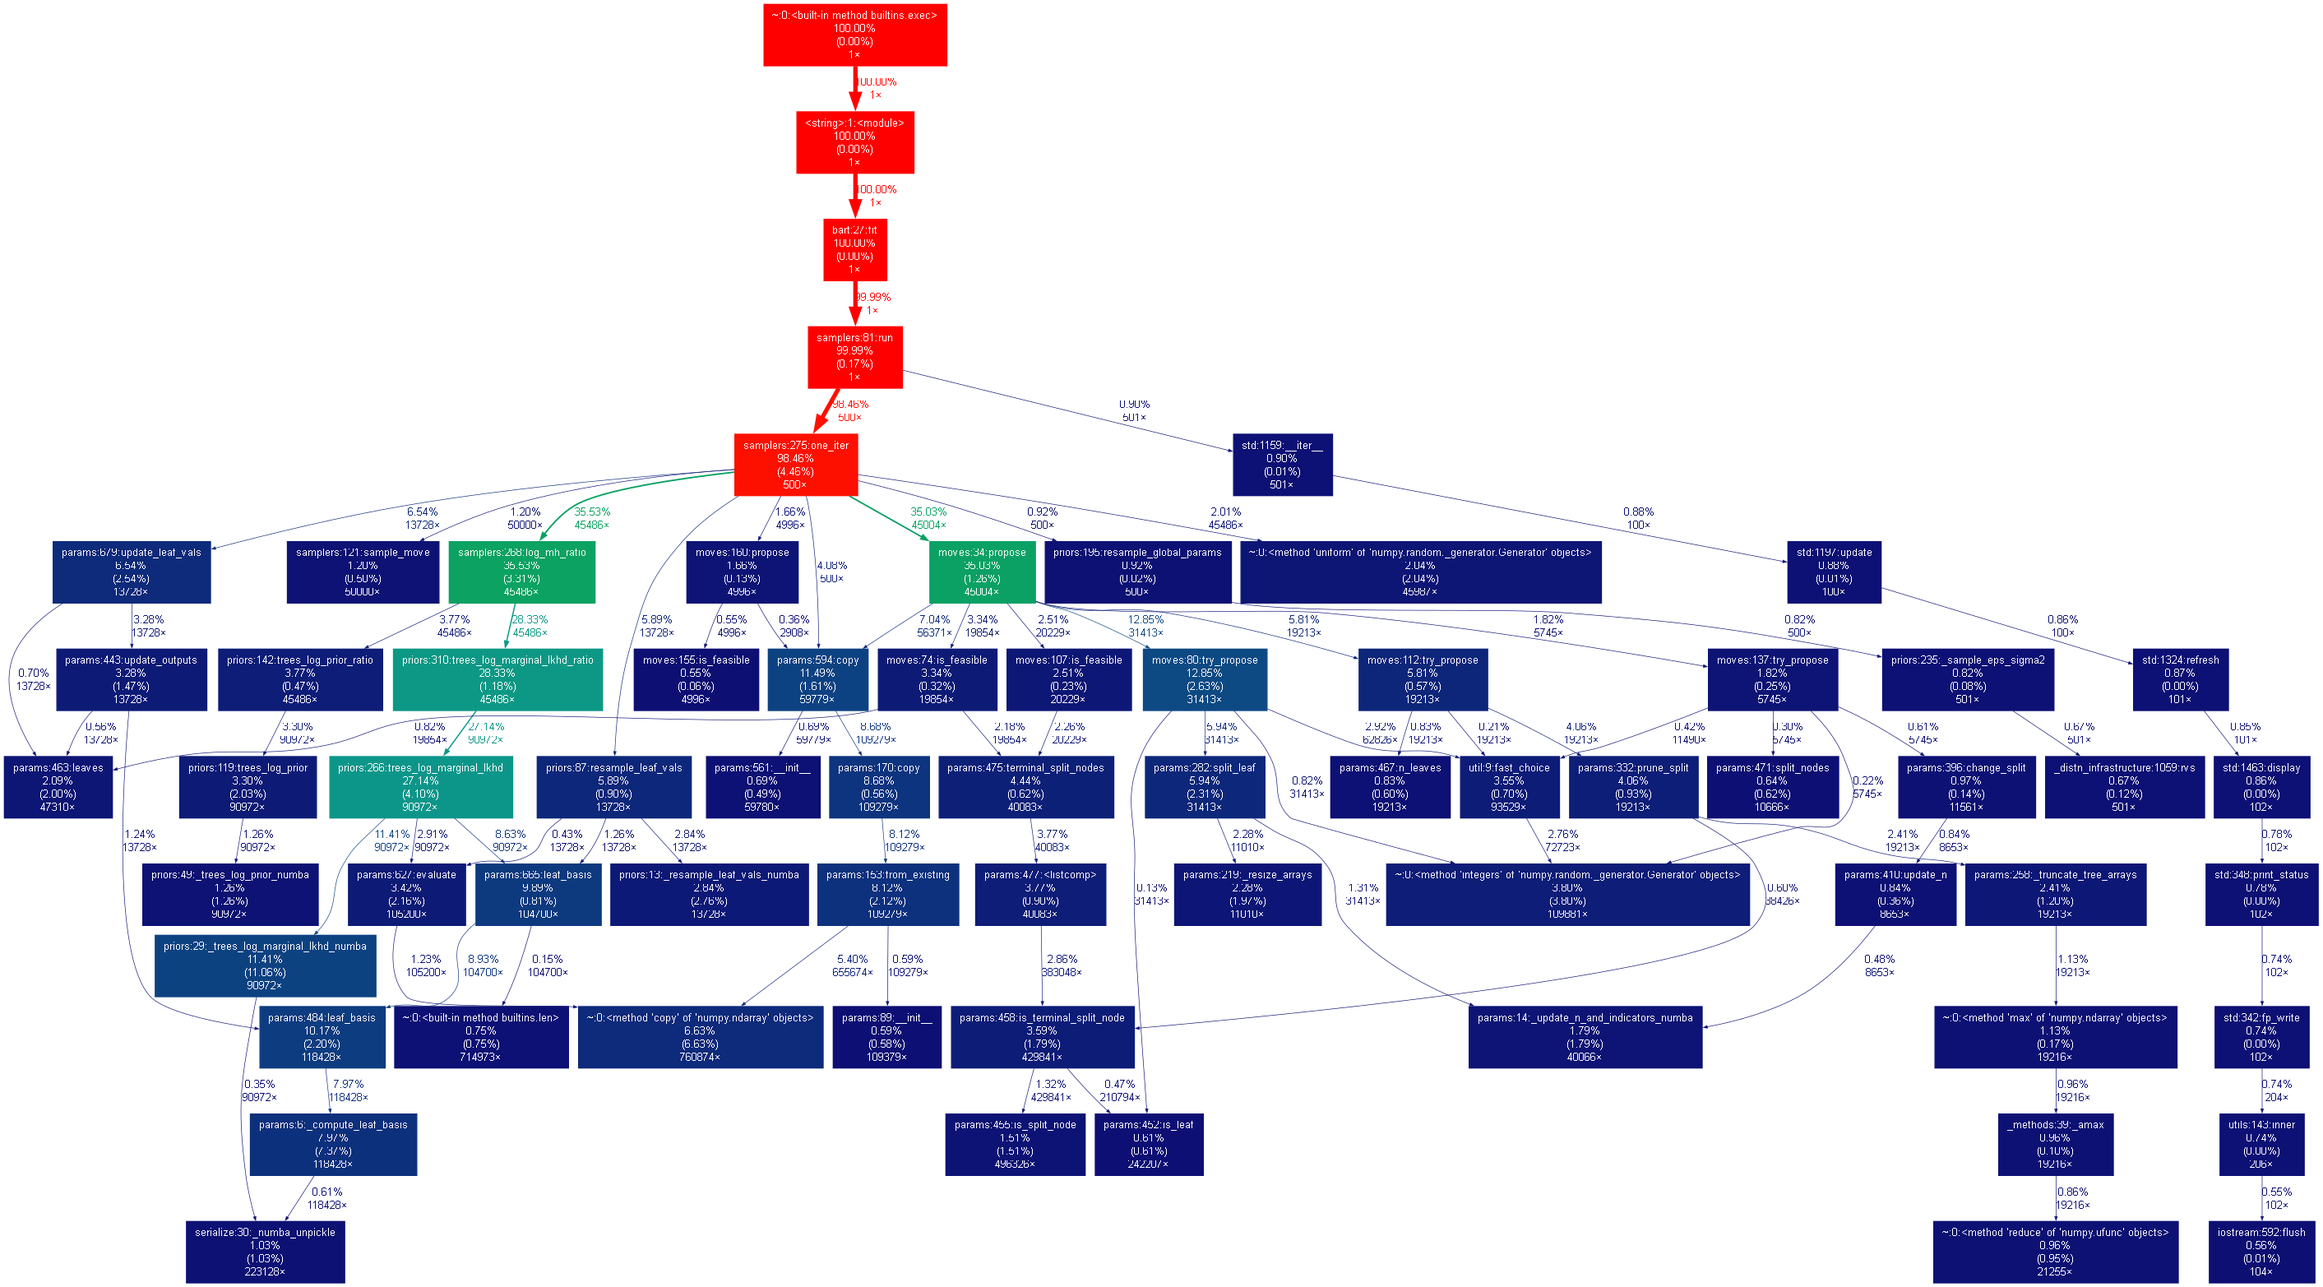
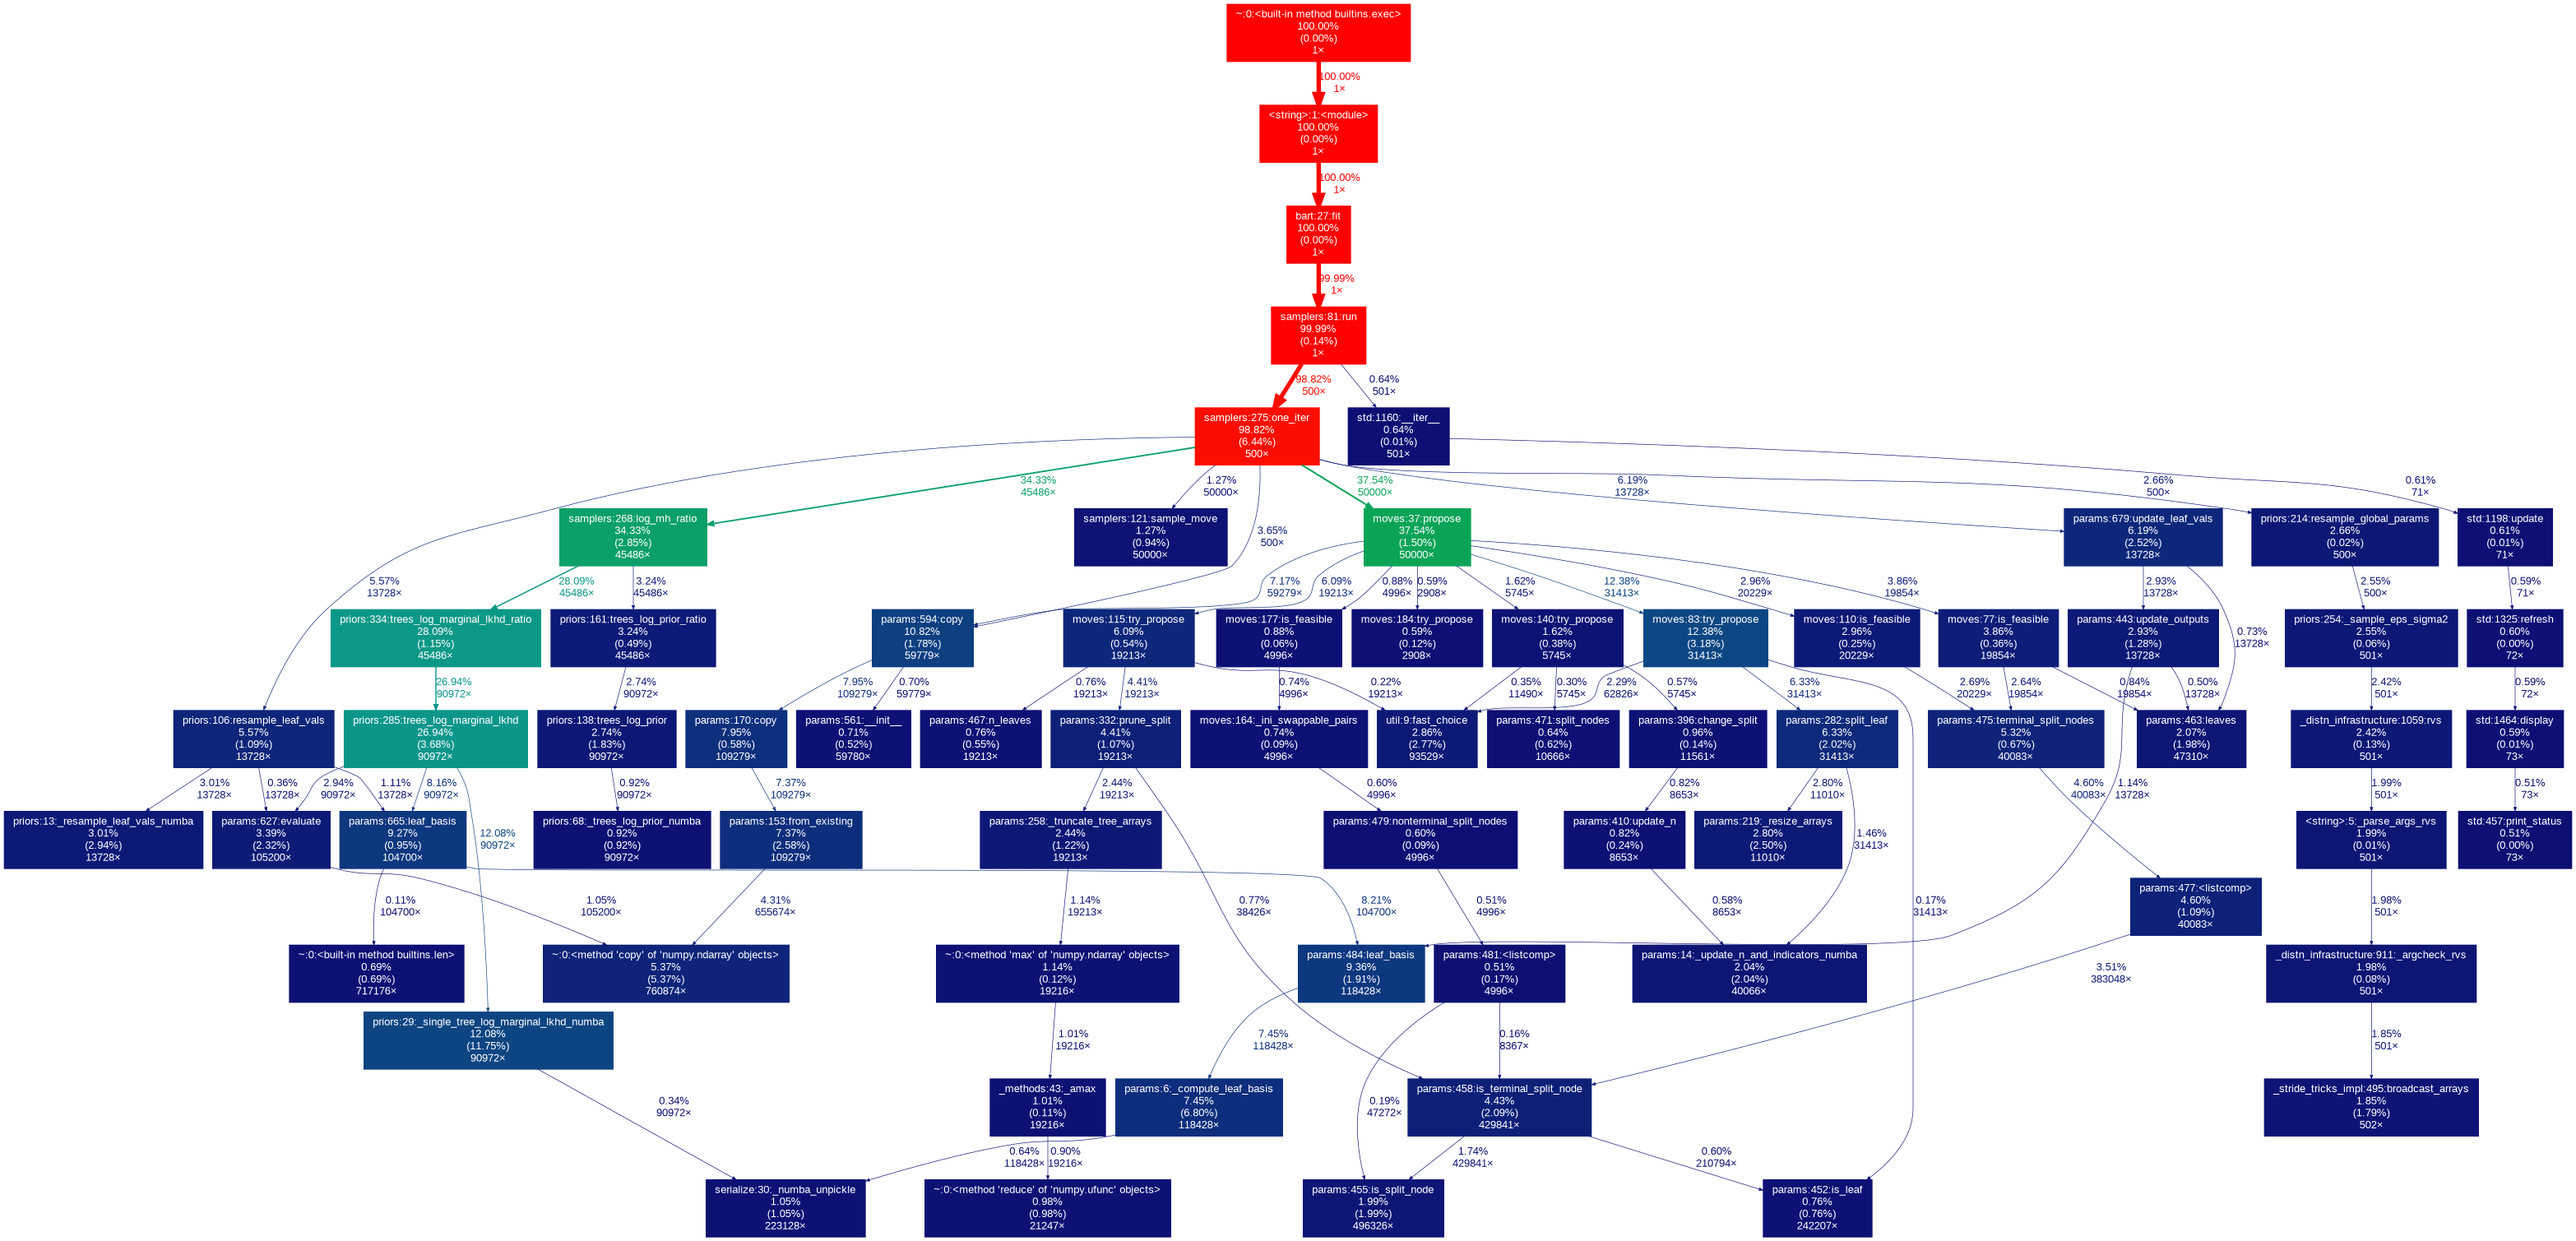
Add fallback to SVD when updating more than 1 tree at a time
By the way, slightly DRY the changes in `moves.py`

Changed region(s): [[0.0, 0.0, 1.0, 1.0], [0.6542, 0.9344, 0.7476, 1.0], [0.2492, 0.8721, 0.2804, 0.9032]]

diff --git a/bart_playground/moves.py b/bart_playground/moves.py
@@ -30,13 +30,16 @@ class Move(ABC):
     def possible_thresholds(self):
         assert self._possible_thresholds, "possible_thresholds must be initialized"
         return self._possible_thresholds
+    @property
+    def _num_possible_proposals(self):
+        return self.tol
 
     def propose(self, generator):
         """
         Propose a new state.
         """
         if self.is_feasible():
-            for _ in range(self.tol):
+            for _ in range(self._num_possible_proposals):
                 proposed = self.current.copy(self.trees_changed)
                 success = self.try_propose(proposed, generator)
                 if success:
@@ -151,43 +154,41 @@ class Swap(Move):
                  possible_thresholds = None, tol : int = 100):
         super().__init__(current, trees_changed, tol = tol)
         assert len(trees_changed) == 1
-
-    def is_feasible(self):
-        tree = self.current.trees[self.trees_changed[0]]
-        self.cur_nonterminal_split_nodes = tree.nonterminal_split_nodes
-        return len(self.cur_nonterminal_split_nodes) > 0
+        self.swappable_pairs = None
+        self.idx = None
+        
+    @property
+    def _num_possible_proposals(self):
+        return min(self.tol, len(self.swappable_pairs))
     
-    def propose(self, generator):
-        """
-        Try all possible parent-child pairs, return True if any swap succeeds.
-        """
-        if not self.is_feasible():
-            return False
+    def _ini_swappable_pairs(self):
         tree = self.current.trees[self.trees_changed[0]]
-        # Collect all possible parent-child pairs
-        pairs = [
+        nonterminal_split_nodes = tree.nonterminal_split_nodes
+
+        # Collect all valid parent-child pairs where the child is also a split node.
+        self.swappable_pairs = [
             (parent_id, 2 * parent_id + lr)
-            for parent_id in self.cur_nonterminal_split_nodes
+            for parent_id in nonterminal_split_nodes
             for lr in [1, 2]
             if tree.vars[2 * parent_id + lr] != -1
         ]
+        self.idx = 0
 
-        generator.shuffle(pairs)
-        tries = 0
-        for parent_id, child_id in pairs:
-            if tries >= self.tol:
-                break
-            proposed = self.current.copy(self.trees_changed)
-            success = self.try_propose(proposed, generator, parent_id, child_id)
-            tries += 1
-            if success:
-                self.proposed = proposed
-                return True
-        return False
-    
-    def try_propose(self, proposed, generator, parent_id, child_id):
-        tree = proposed.trees[self.trees_changed[0]]   
-        success = tree.swap_split(parent_id, child_id) # If no empty leaves are created
+    def is_feasible(self):
+        '''
+        Note that this method has a side effect of initializing the swappable_pairs.
+        '''
+        self._ini_swappable_pairs()
+        return self._num_possible_proposals > 0
+
+    def try_propose(self, proposed, generator):
+        if self.idx == 0: # Shuffle the pairs once at the start
+            generator.shuffle(self.swappable_pairs)
+            
+        parent_id, child_id = self.swappable_pairs[self.idx]
+        tree = proposed.trees[self.trees_changed[0]]
+        success = tree.swap_split(parent_id, child_id)  # If no empty leaves are created
+        self.idx += 1
         return success
     
  

diff --git a/bart_playground/priors.py b/bart_playground/priors.py
@@ -27,9 +27,9 @@ def _resample_leaf_vals_numba(leaf_basis, residuals, eps_sigma2, f_sigma2, rando
     return leaf_params_new
 
 @njit
-def _trees_log_marginal_lkhd_numba(leaf_basis, resids, eps_sigma2, f_sigma2):
+def _single_tree_log_marginal_lkhd_numba(leaf_basis, resids, eps_sigma2, f_sigma2):
     """
-    Numba-optimized function to calculate log marginal likelihood.
+    Numba-optimized function to calculate log marginal likelihood when there is only one tree.
     """
     # Explicitly convert boolean array to float32
     leaf_basis_float = leaf_basis.astype(np.float32)
@@ -44,6 +44,25 @@ def _trees_log_marginal_lkhd_numba(leaf_basis, resids, eps_sigma2, f_sigma2):
 
     ridge_bias = np.sum(resid_sums ** 2 / (counts * (counts / noise_ratio + 1)))
 
+    return - (logdet + (ls_resids + ridge_bias) / eps_sigma2) / 2
+
+@njit
+def _trees_log_marginal_lkhd_numba(leaf_basis, resids, eps_sigma2, f_sigma2):
+    """
+    Numba-optimized function to calculate log marginal likelihood when there are multiple trees.
+    This function uses SVD for the leaf basis matrix.
+    """
+    # Explicitly convert boolean array to float32
+    leaf_basis_float = leaf_basis.astype(np.float32)
+    
+    # Now use the float32 array with SVD
+    U, S, _ = np.linalg.svd(leaf_basis_float, full_matrices=False)
+    noise_ratio = eps_sigma2 / f_sigma2
+    logdet = np.sum(np.log(S ** 2 / noise_ratio + 1))
+    resid_u_coefs = U.T @ resids
+    resids_u = U @ resid_u_coefs
+    ls_resids = np.sum((resids - resids_u) ** 2)
+    ridge_bias = np.sum(resid_u_coefs ** 2 / (S ** 2 / noise_ratio + 1))
     return - (logdet + (ls_resids + ridge_bias) / eps_sigma2) / 2
 
 @njit
@@ -295,17 +314,22 @@ class BARTLikelihood:
         """
         resids = (data_y - bart_params.evaluate(all_except=tree_ids))
         leaf_basis = bart_params.leaf_basis(tree_ids)
-        # Assert tree_ids has length 1 so that leaf_basis's each row sums to 1
-        if len(tree_ids) != 1:
-            raise NotImplementedError("Log marginal likelihood calculation only supports single tree evaluation for faster computation.")
-
-        # Use the standalone numba function
-        return _trees_log_marginal_lkhd_numba(
-            leaf_basis, 
-            resids, 
-            bart_params.global_params["eps_sigma2"], 
-            self.f_sigma2
-        )
+        if len(tree_ids) == 1:
+            # For single tree, we can use the optimized function
+            return _single_tree_log_marginal_lkhd_numba(
+                leaf_basis, 
+                resids, 
+                bart_params.global_params["eps_sigma2"], 
+                self.f_sigma2
+            )
+        else:
+            return _trees_log_marginal_lkhd_numba(
+                leaf_basis, 
+                resids, 
+                bart_params.global_params["eps_sigma2"], 
+                self.f_sigma2
+            )
+            
 
     def trees_log_marginal_lkhd_ratio(self, move : Move, data_y, marginalize: bool=False):
         """
